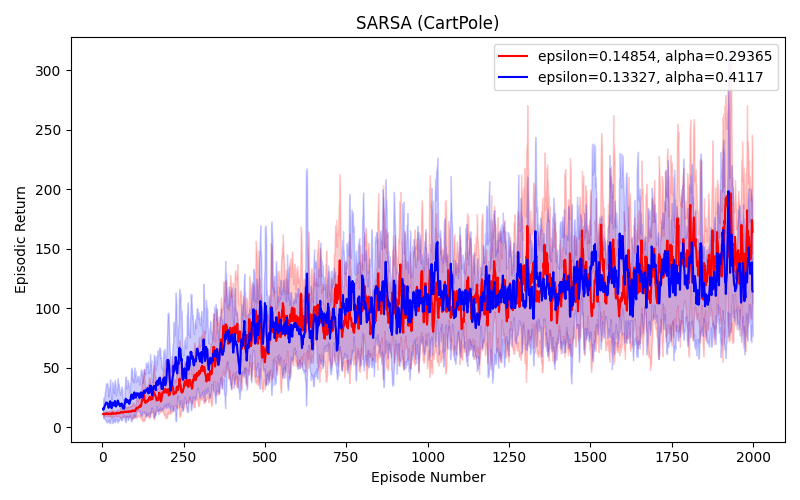
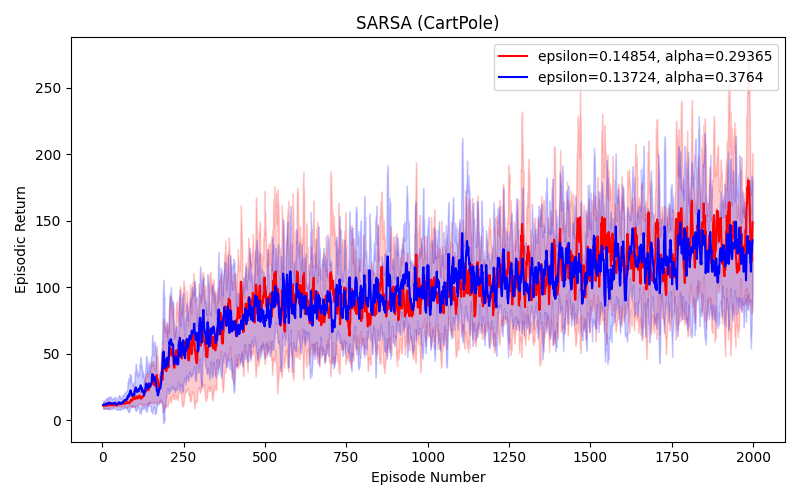
updated

diff --git a/cartpole-v1/temp.py b/cartpole-v1/temp.py
@@ -63,7 +63,7 @@ def plot_two_sarsa_results(
     # plt.savefig(f"plots/sarsa_{alpha1}_{epsilon1}vs{alpha2}_{epsilon2}.png")
 if __name__ == "__main__":
 
-    alpha1, gamma1, epsilon1 = 0.4117, 0.99, 0.13327
+    alpha1, gamma1, epsilon1 = 0.29365, 0.99, 0.14854
     alpha2, gamma2, epsilon2 = 0.3764, 0.99, 0.13724
 
     env_name = "CartPole-v1"
